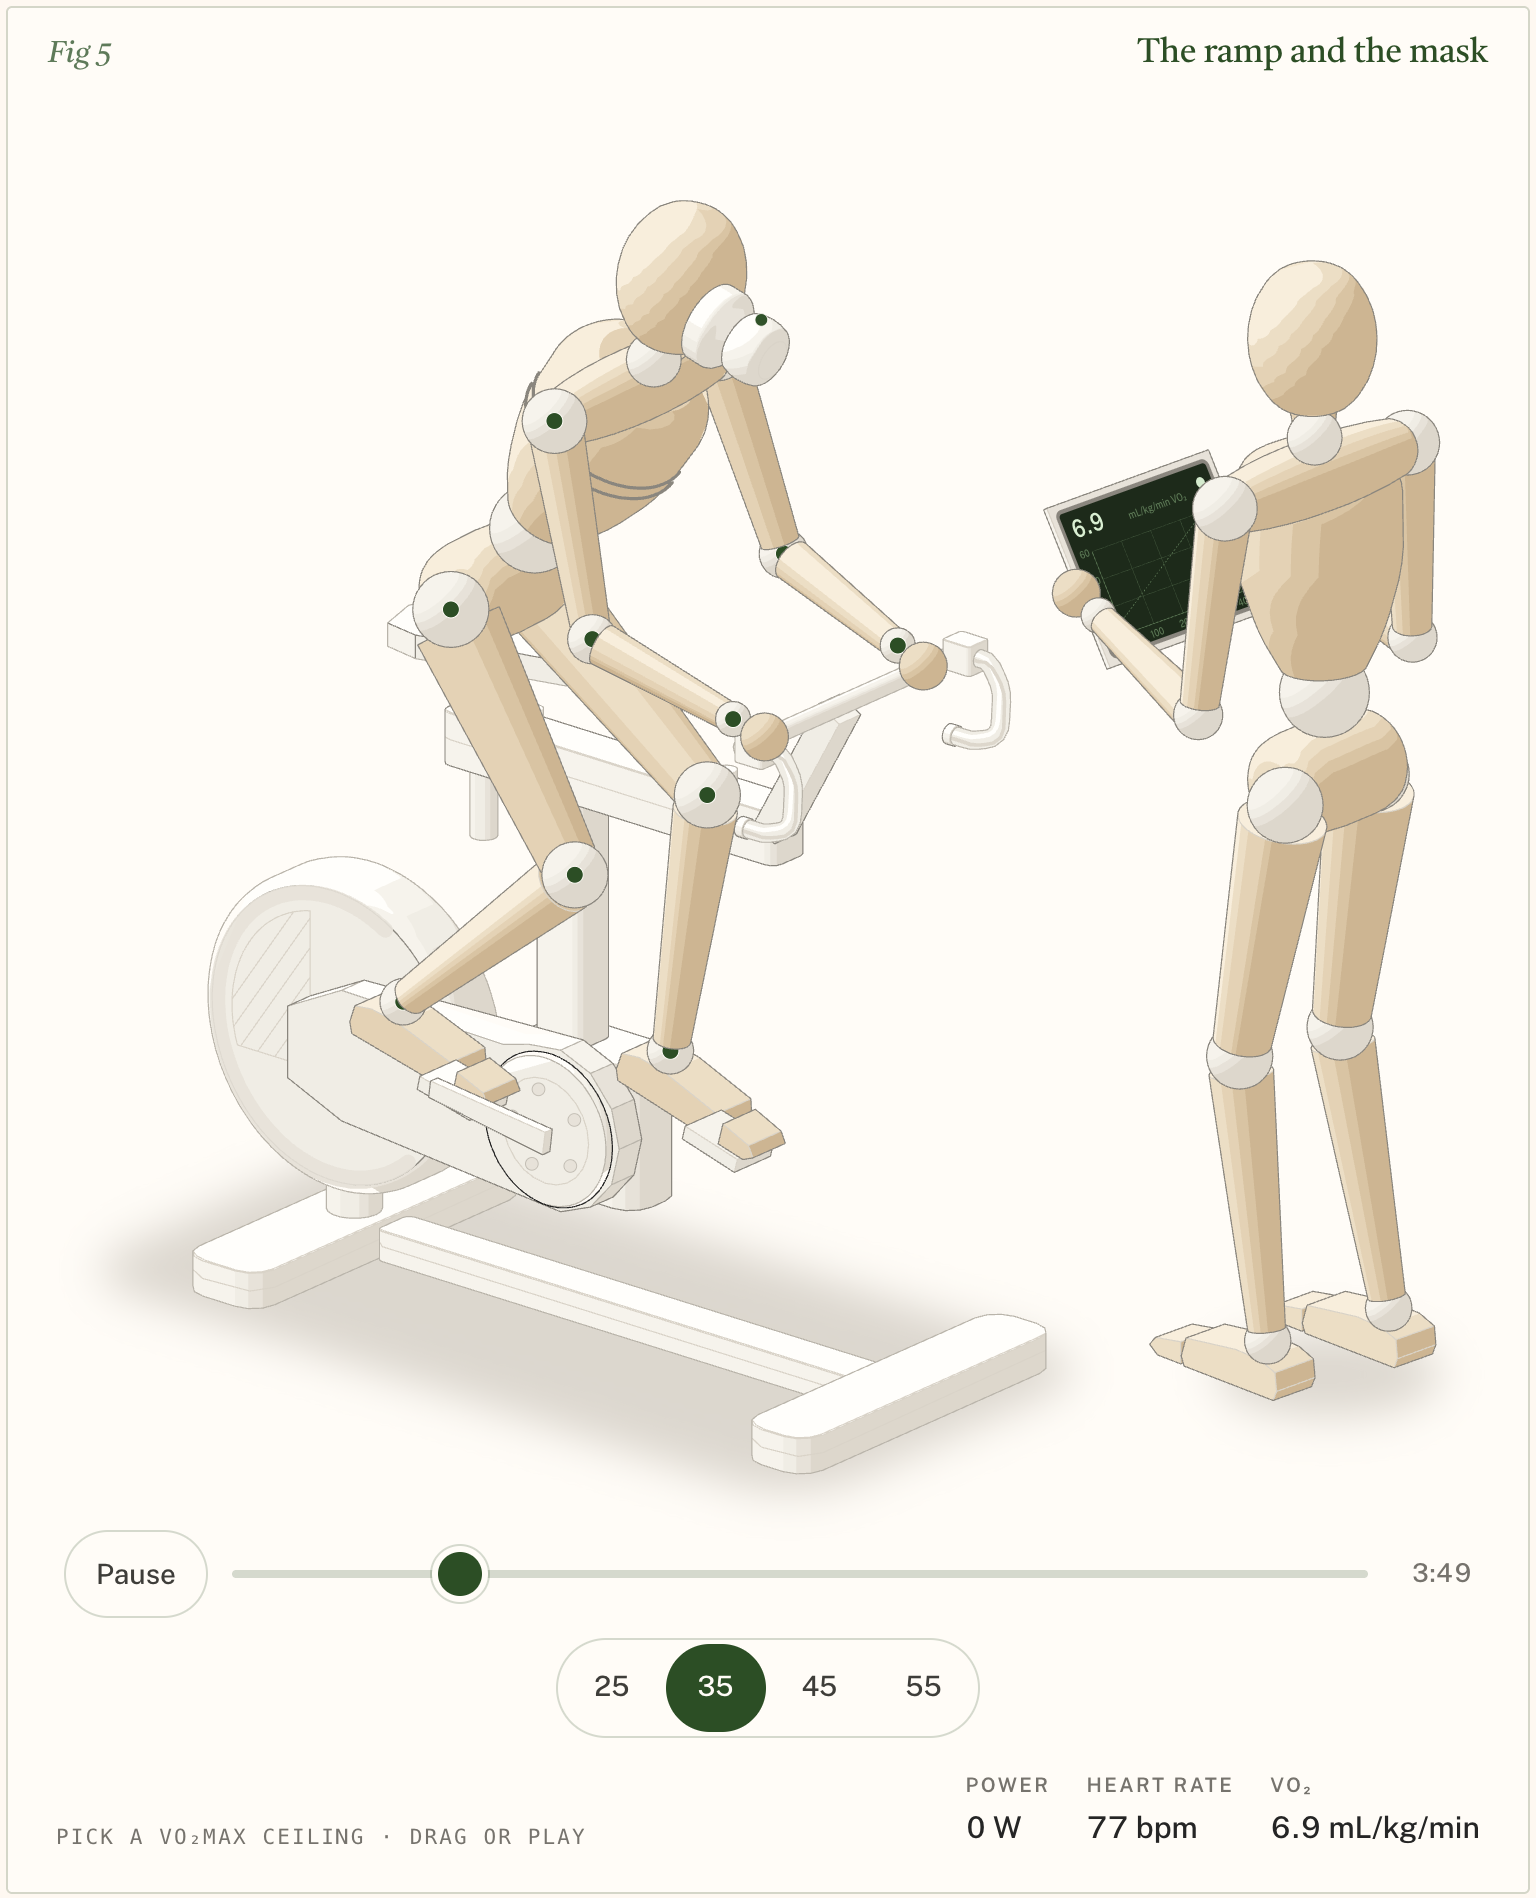
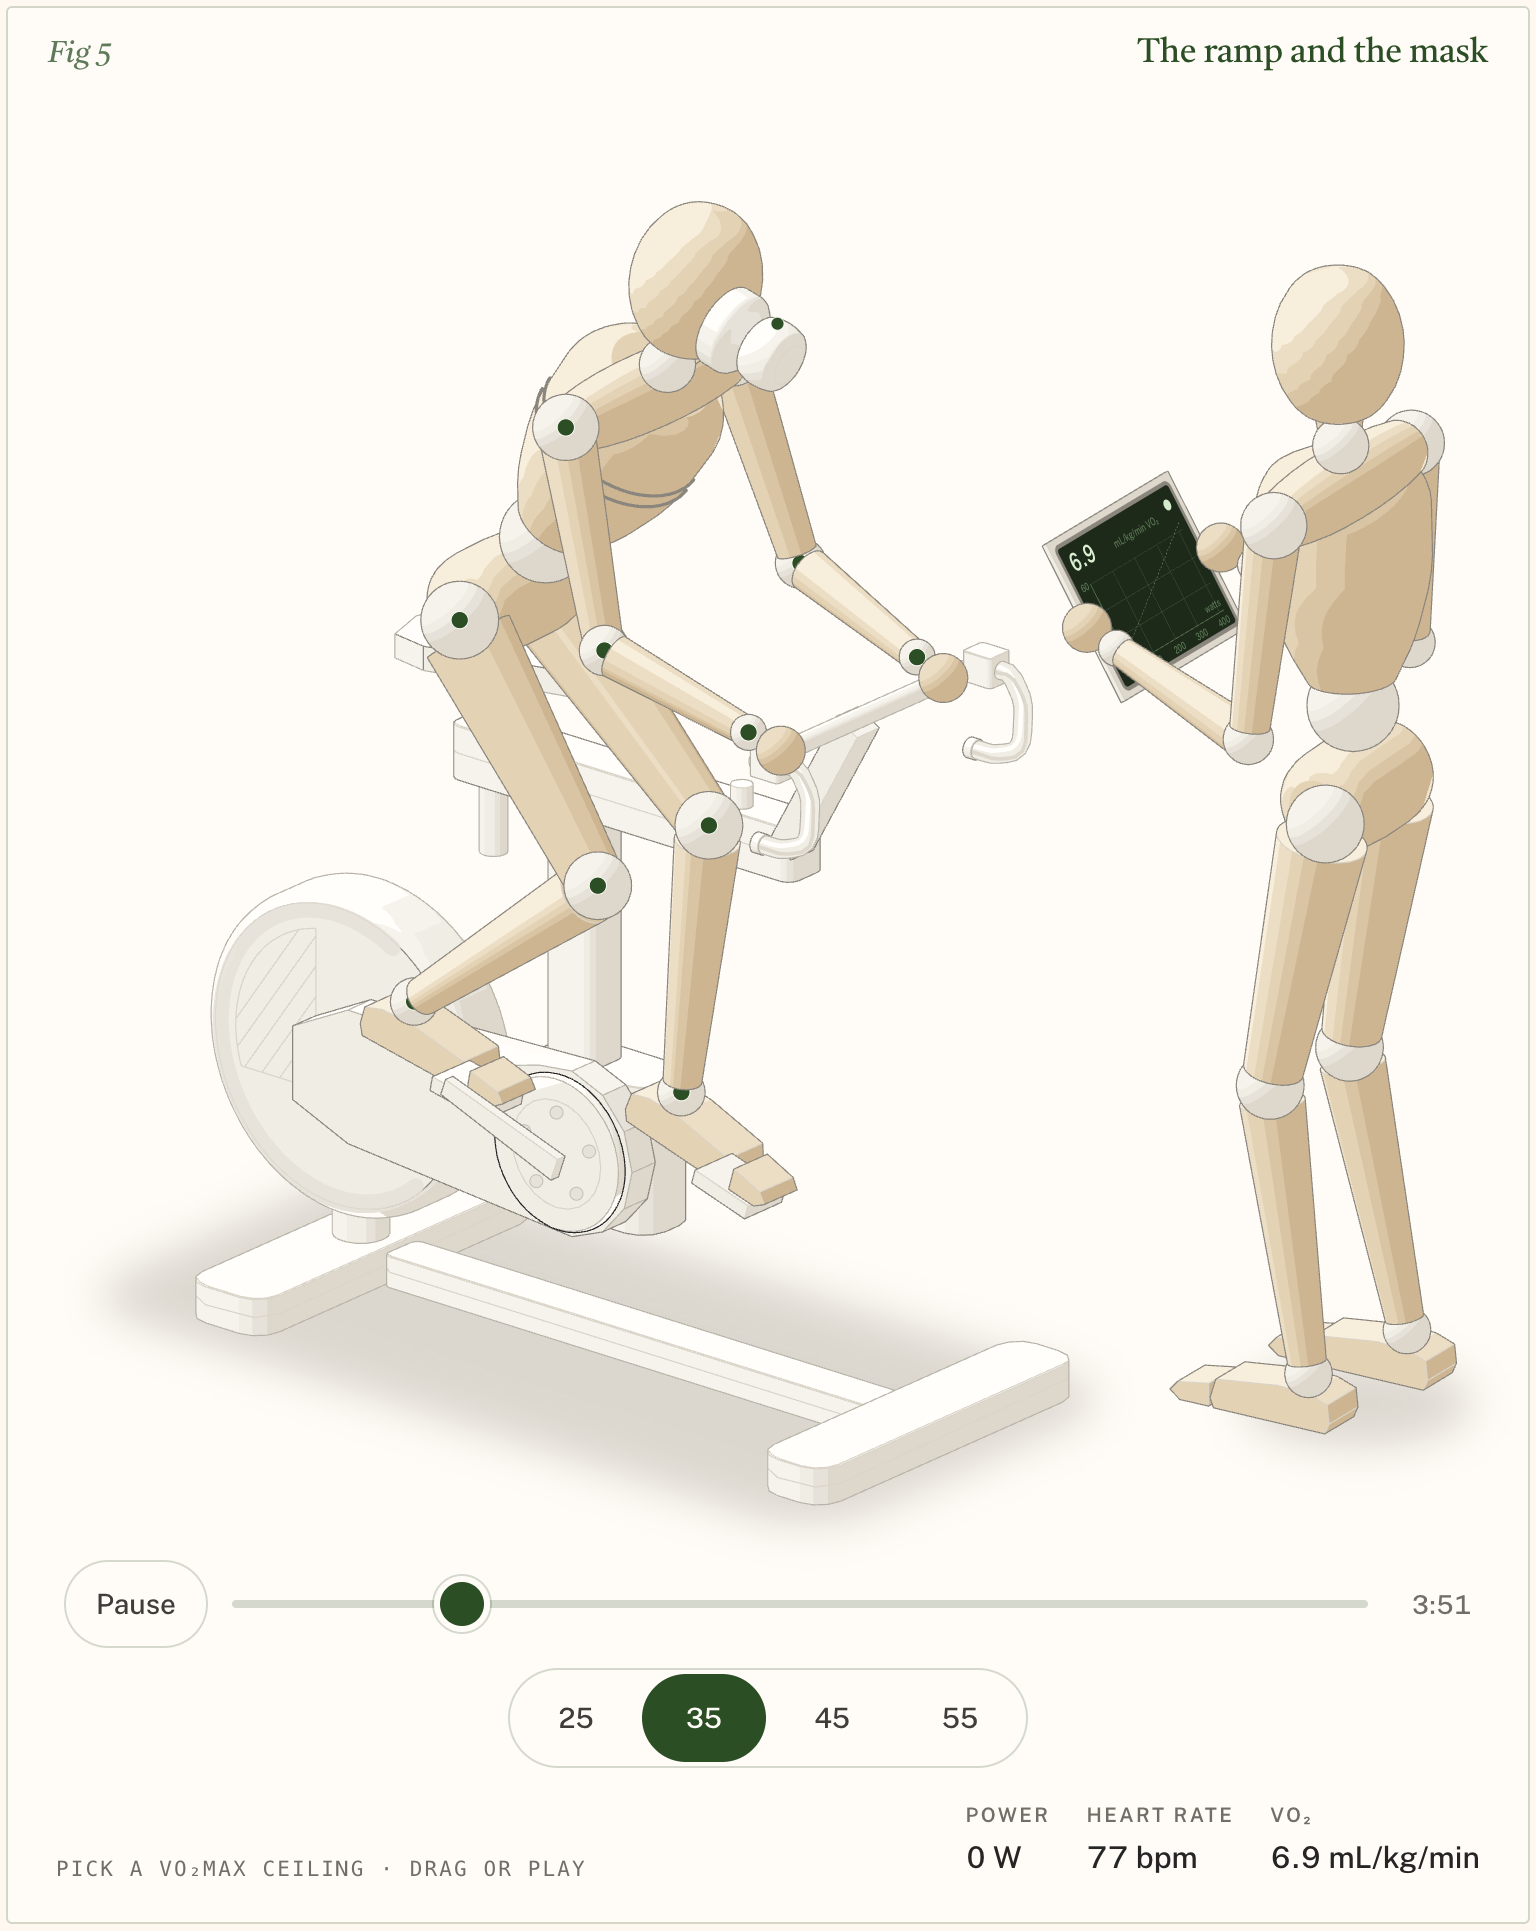
Fig 5: whole tablet visible past the assessor's arm; seven card reserves raised
Fig 5: the assessor's near upper arm covered the right third of the tablet,
exactly where the VO2 line meets the ceiling and flattens; at the 45 and 55
ceilings the live dot and plateau ran behind the arm. The assessor now faces
172 deg (was 186). Screen covered at the ceiling (hit-testing): 33% -> 11%
(just the gripping fists), right third 71% -> 1%. Stage 600x589 -> 600x602.
verify.mjs passed (line ends 0, fits 390/360/320, console clean).

Reserves: re-measured every card at 358 and 760 px, as a desktop browser and
as a phone (touch, 3x). Seven cards were taller than FIGURE_RESERVE, so the
page below would jump 4-29 px on mount. Raised to the taller of the two:
vo2max 1224/1315, hypothalamus phone 1311, finger-skin phone 1040, heart
desktop 1626, alveolus phone 1186, red-cell-cycle phone 1175,
bone-remodelling 998/1060. placements.json matches; DEV_TODO says so.

diff --git a/handoff/site/optimalFigures.ts b/handoff/site/optimalFigures.ts
@@ -16,7 +16,8 @@
 
 export const FIGURE_BASE = '/figures'
 
-/** Whole-card heights (px) measured at 358 px wide (390 px phones) and at 760 px. */
+/** Whole-card heights (px) at 358 px wide (390 px phones) and at 760 px: the taller of a desktop browser and a
+ * phone (touch, 3× pixels), so no card is taller than its slot when it mounts. Re-measured Oct 21. */
 export const FIGURE_RESERVE: Record<
   string,
   { phone: number; desktop: number }
@@ -25,17 +26,17 @@ export const FIGURE_RESERVE: Record<
   'inbody-580': { phone: 1172, desktop: 1190 },
   'iv-iron': { phone: 1039, desktop: 1047 },
   'creator-600': { phone: 1188, desktop: 1351 },
-  vo2max: { phone: 1195, desktop: 1300 },
+  vo2max: { phone: 1224, desktop: 1315 },
   'vo2max-treadmill': { phone: 1223, desktop: 1405 },
   'gut-cell': { phone: 1066, desktop: 1287 },
-  hypothalamus: { phone: 1290, desktop: 1306 },
-  'finger-skin': { phone: 1036, desktop: 1228 },
-  heart: { phone: 1379, desktop: 1605 },
-  alveolus: { phone: 1181, desktop: 1374 },
-  'red-cell-cycle': { phone: 1171, desktop: 1293 },
+  hypothalamus: { phone: 1311, desktop: 1306 },
+  'finger-skin': { phone: 1040, desktop: 1228 },
+  heart: { phone: 1379, desktop: 1626 },
+  alveolus: { phone: 1186, desktop: 1374 },
+  'red-cell-cycle': { phone: 1175, desktop: 1293 },
   knee: { phone: 1117, desktop: 1424 },
   'muscle-water': { phone: 1136, desktop: 1119 },
-  'bone-remodelling': { phone: 981, desktop: 1039 },
+  'bone-remodelling': { phone: 998, desktop: 1060 },
 }
 
 export type FigureSlug = keyof typeof FIGURE_RESERVE

diff --git a/DEV_TODO.md b/DEV_TODO.md
@@ -4,6 +4,10 @@ In order. Sizes are rough, for one engineer who knows the site repo. See `ENGINE
 
 ## Changed since the handoff
 
+- **Oct 21, 2026: seven card reserves raised; update `FIGURE_RESERVE` from `handoff/site/optimalFigures.ts` (the zip's patch carries the new values).** I re-measured every card at 358 and 760 px, in a desktop browser and as a phone (touch, 3× pixels). Seven cards came out taller than their reserves, so content below them would jump by 4–29 px when they mount.
+  - Raised: Fig 5 1224 / 1315 (also its new pose, below); A2 phone 1311; A3 phone 1040; A4 desktop 1626; A5 phone 1186; A6 phone 1175; A9 998 / 1060.
+  - The other eight already fit. `placements.json` matches.
+  - **Fig 5:** the assessor turns 14° so the whole tablet shows past the near arm. The arm had hidden where the VO₂ line flattens at the 45 and 55 ceilings.
 - **Oct 21, 2026: small polish. Re-export all 15 embeds again.** The light theme's muted and legend grey is now #716e68 (4.97:1 on cream, up from 4.46:1). Fig 1's hint reads "tap for a small rise" and Fig 3's "press Play", in place of "space" on phones. **Fig 6:** the side panel moved 6 cm forward along the far handrail and its speed is right-aligned, so the runner's mask no longer hides the first digit ("15.6" had read "5.6" at points in every stride). Card heights are unchanged.
 - **Oct 21, 2026: the equipment films were re-cut and the take-apart pages polished (E1–E4).** The camera now only moves forward, so any change to a wider framing is a hard cut. All 16:9, 9:16 and web encodes in `figures/e*/assets/` are replaced, along with their posters. The pages share one header, corner labels and equal-width button rows, and meet 4.5:1 contrast. Re-copy every `assets/` file you took before Oct 21.
 - **Oct 20, 2026: visual-bug sweep. Re-export all 15 embeds** (`scripts/export-embeds.mjs`); every embed script changed. Card heights are unchanged (re-measured at 358 and 760 px), so `FIGURE_RESERVE` and `placements.json` stay as they are.

diff --git a/figures/05-vo2max/NOTES.md b/figures/05-vo2max/NOTES.md
@@ -15,6 +15,12 @@ Power is now an orange arc sweeping round the disc's rim, full at 420 W; the mag
 
 **Mapping in one sentence:** the mannequin pedals a generic lab bike whose magnet brake closes in on the flywheel as the ramp adds watts. A small wireless analyser on its mask blinks with every breath, and the assessor's tablet plots oxygen uptake against watts: a straight line at about 10 ml/min per watt that flattens at the ceiling. The ceiling control moves the ceiling, never the slope.
 
+**Round 4 (2026-10-21, visual-bug sweep):** the assessor's near upper arm covered the right third of the tablet, which is where the VO₂ line meets the ceiling and flattens. At the 45 and 55 ceilings the live dot and the plateau ran behind the arm, hiding the figure's main point.
+- The assessor now faces 172° (was 186°). With the turn, the whole plot shows past the near arm, including the dot at the ceiling and the 100–400 W axis.
+- Hit-testing the screen at the ceiling: 33 % of the screen was covered, and 71 % of its right third. It's now 11 % (the gripping fists at the edges) and 1 %.
+- The stage grows from 600 × 589 to 600 × 602. `FIGURE_RESERVE.vo2max` is now 1224 / 1315 (was 1195 / 1300).
+- `scripts/verify.mjs` passed: line ends 0 in both themes, fits at 390/360/320, console clean.
+
 ## Parts
 
 - **Bike** (round 3): smart-bike proportions as above. Base bar and feet, flywheel post, vented disc, drive case, bottom-bracket block, crank cover, frame post, top beam with two adjuster knobs, seat slider, post, clamp and saddle, riser, bar, hoods, drops and plugs.
